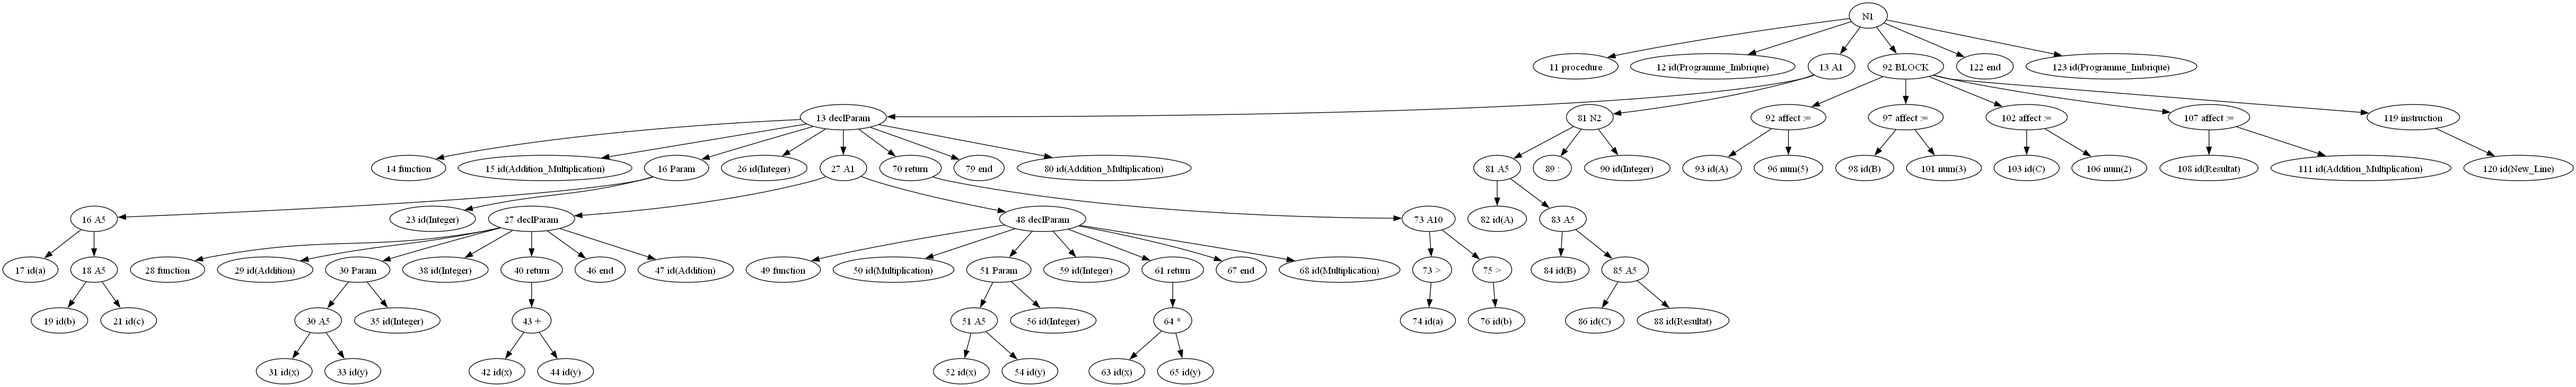
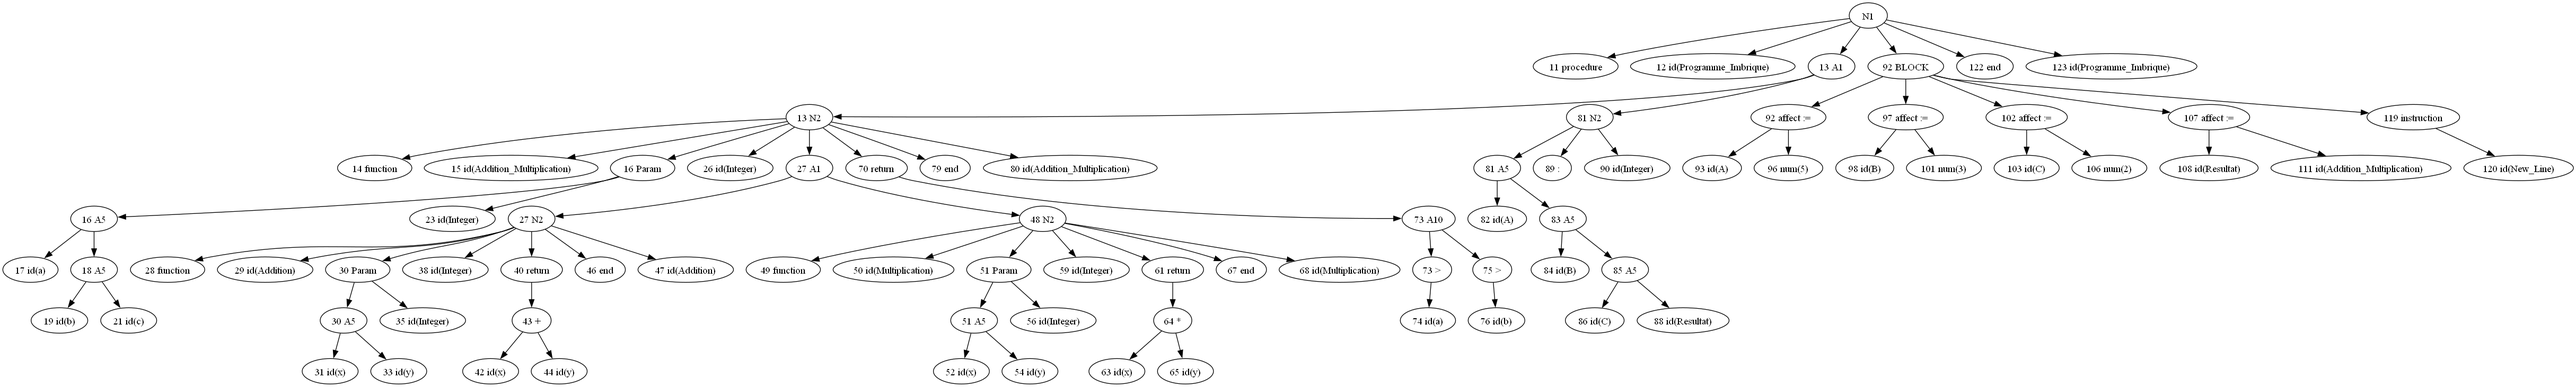
fix param

diff --git a/parseur/main_parseur.py b/parseur/main_parseur.py
@@ -249,7 +249,7 @@ def generate_final_AST(root):
     for node in PreOrderIter(root):
         if node.name != "N1":
             paramVar(node)
-
+            continue
     return root
 
 
@@ -483,7 +483,8 @@ def paramVar(node):
     name = node.name.split(" ")
     if name[1]=="N6":
         nameParent = node.parent.name.split(" ")
-        node.parent.name = nameParent[0] + " declParam"
+        if nameParent[1] != "N2":
+            node.parent.name = nameParent[0] + " declParam"
         children = node.children
         for i in range(len(children)):
             nameChild = children[i].name.split(" ")
